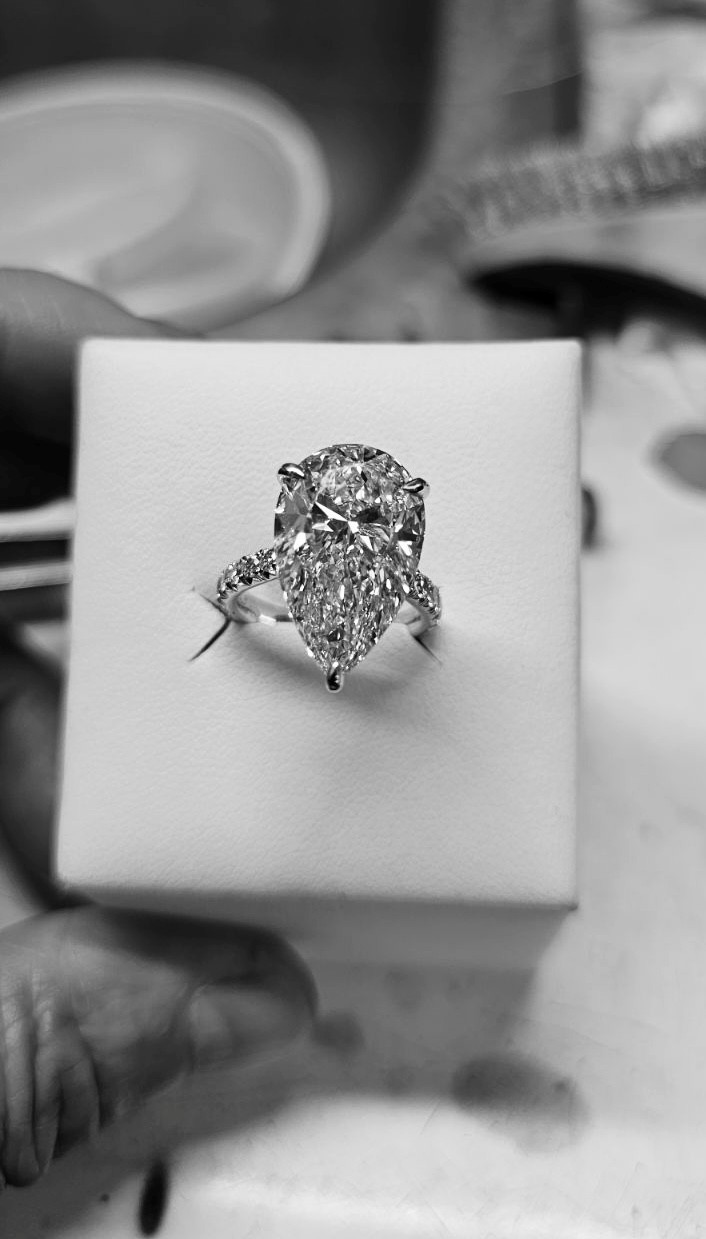
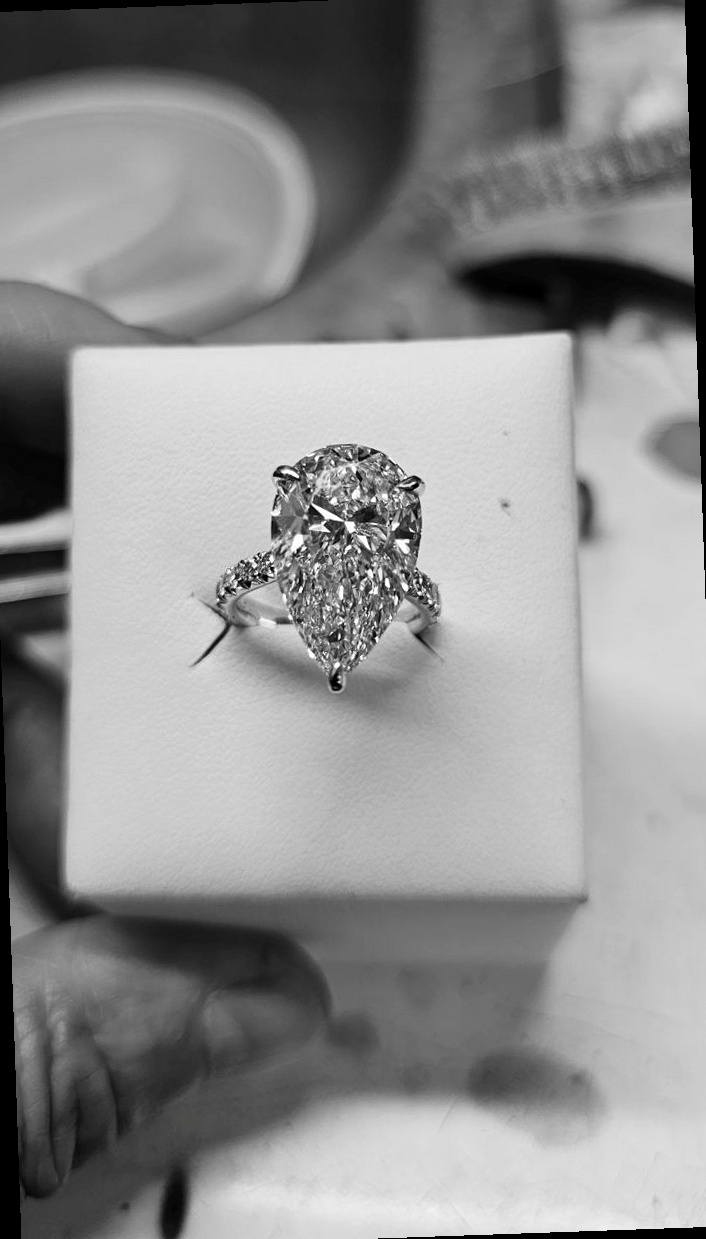
fix: revert hero to B&W, straighten diamond box 2deg

diff --git a/app/page.tsx b/app/page.tsx
@@ -91,7 +91,7 @@ export default function Home() {
 
       {/* ── HERO ── */}
       <section className="relative h-screen bg-atelier-black overflow-hidden flex items-end">
-        <Image src="/laishaandchloeherov2.jpg" alt="Atelier Diamonds" fill className="object-cover object-center opacity-60" priority />
+        <Image src="/laishaandchloe2.jpg" alt="Atelier Diamonds" fill className="object-cover object-center opacity-60" priority />
         <div className="absolute inset-0 bg-gradient-to-t from-atelier-black via-atelier-black/30 to-transparent" />
 
         <div className="relative z-10 px-10 md:px-20 pb-20 md:pb-28">
